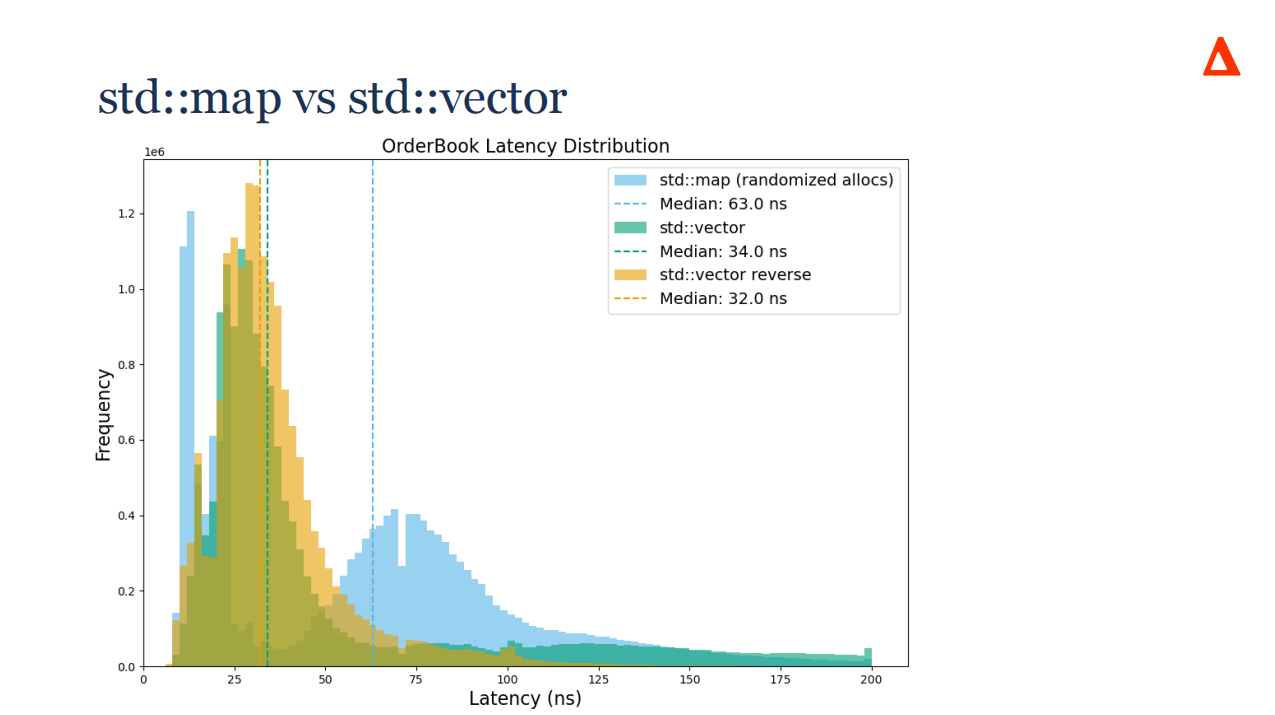
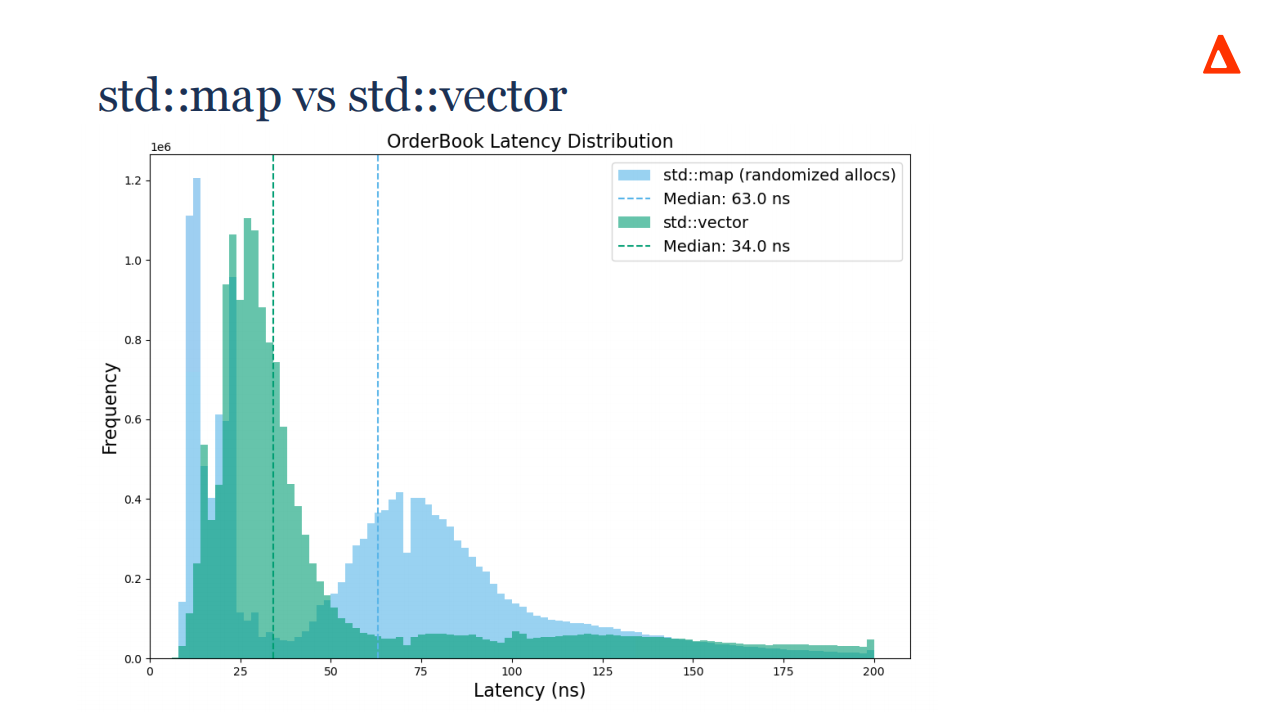
Update doc

diff --git a/doc/Nanoseconds-Level_Ultrafast_Trading_Systems_in_C++.md b/doc/Nanoseconds-Level_Ultrafast_Trading_Systems_in_C++.md
@@ -169,7 +169,7 @@ At first glance, the `O(N)` complexity for insertions and deletions in `std::vec
 
 <div align="center">
   <img src="../img/std_map_vs_vector_graph.png" alt="std::map vs. std::vector Latency Graph" style="width: 800px; height: auto;">
-  <p><i>Figure 11: Latency distribution comparing `std::map` (yellow) and `std::vector` (green), showing `std::vector`'s improved performance but still exhibiting a "fat tail."</i></p>
+  <p><i>Figure 11: Latency distribution comparing `std::map` (light blue) and `std::vector` (green), showing `std::vector`'s improved performance but still exhibiting a "fat tail."</i></p>
 </div>
 
 ### Optimizing `std::vector` for Order Book Dynamics